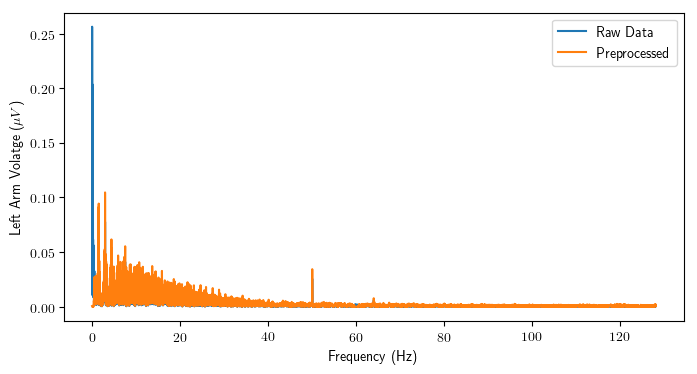
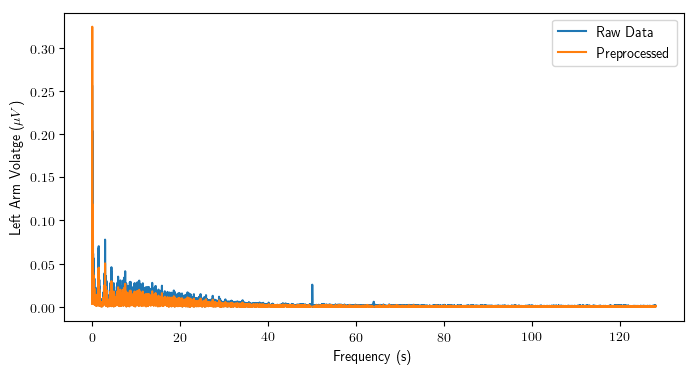
fixed filtering bug and updated paper with fixed figures

diff --git a/src/plot.py b/src/plot.py
@@ -7,7 +7,7 @@ import matplotlib.pyplot as plt
 from matplotlib import rc
 rc('text', usetex=True)
 
-def plot_eeg():
+def plot_eeg_freq():
     plt.figure(figsize=(8, 4))
     column_name = { 3 : "AF3",
                     4 : "F7",
@@ -44,11 +44,13 @@ def plot_eeg():
         plt.savefig(column_name[channel] + ".png", bbox_inches='tight')
         plt.clf()
 
-def plot_ecg():
+def plot_ecg_freq():
     plt.figure(figsize=(8, 4))
     # ECG Ploting
     raw_data = reader.get_matlab_data('ecg', 1, 12)
     data = preprocess.process_data('ecg', copy.deepcopy(raw_data))
+
+    x = data[0] - data[0][0]
 
     # ECG channels are 1 & 2
     for channel in range(1, 3):
@@ -60,14 +62,40 @@ def plot_ecg():
         plt.magnitude_spectrum(y, Fs=256, label='Preprocessed')
 
         plt.legend()
-        plt.xlabel('Frequency (Hz)')
+        plt.xlabel('Frequency (s)')
 
         label = "Left Arm" if channel is 1 else "Right Arm"
         plt.ylabel(label + ' Volatge ($\mu V$)')
         plt.savefig("ECG " + label + ".png", bbox_inches='tight')
         plt.clf()
 
+def plot_ecg_time():
+    plt.figure(figsize=(8, 4))
+    # ECG Ploting
+    raw_data = reader.get_matlab_data('ecg', 1, 12)
+    data = preprocess.process_data('ecg', copy.deepcopy(raw_data))
+
+    x = data[0] - data[0][0]
+
+    # ECG channels are 1 & 2
+    for channel in range(1, 3):
+        # We must also normalize as the processed data is
+        y_raw = filters.normalize(raw_data[channel])
+        y = data[channel]
+
+        plt.plot(x, y_raw, label='Raw Data')
+        plt.plot(x, y, label='Preprocessed')
+
+        plt.legend()
+        plt.xlabel('Time (s)')
+
+        label = "Left Arm" if channel is 1 else "Right Arm"
+        plt.ylabel(label + ' Volatge ($\mu V$)')
+        plt.savefig("ECG " + label + " time.png", bbox_inches='tight')
+        plt.clf()
+
 
 if __name__ == "__main__":
-    plot_eeg()
-    plot_ecg()
+    plot_eeg_freq()
+    plot_ecg_freq()
+    plot_ecg_time()

diff --git a/tex/figures/filtering/filtering.tex b/tex/figures/filtering/filtering.tex
@@ -33,4 +33,21 @@
     \caption{Example filtering of ECG signal on sample 1 video 12
              for the left and right arms}
     \label{fig:ecg}
+
+    \begin{subfigure}[t]{\columnwidth}
+        \centering
+        \includegraphics[width=\columnwidth]{tex/figures/filtering/ECG Left Arm time.png}
+        \caption{Left}
+        \label{fig:filter:left:time}
+    \end{subfigure}
+    \hfill
+    \begin{subfigure}[t]{\columnwidth}
+        \centering
+        \includegraphics[width=\columnwidth]{tex/figures/filtering/ECG Right Arm time.png}
+        \caption{Right}
+        \label{fig:filter:right:time}
+    \end{subfigure}
+    \caption{Example filtering of ECG signal on sample 1 video 12
+             for the left and right arms in time domain}
+    \label{fig:ecg:time}
 \end{figure*}

diff --git a/tex/preprocessing.tex b/tex/preprocessing.tex
@@ -11,12 +11,14 @@ We removed a significant amount of low frequency noise.
 We can see that the preproccessed data results
 in an slightly high amplitude than our original signal despite keeping the same shape.
 Through experimental analysis we noticed that this was by a factor of 5.
-For the ECG signal we applied a 0.5Hz highpass filter as noted in
+For the ECG signal we applied a 0.05Hz highpass filter as noted in
 \cite{SantamariaGranados:2019}
 to remove baseline wander.
-We also applied a bandstop filter with a 60Hz cutoff.
+We also applied a bandstop filter with a 50Hz cutoff.
 A small notch is visible in
 Figures \ref{fig:filter:left} and \ref{fig:filter:right}.
+The impact of the frequency filtering in the time domain can be seen in Figure
+\label{fig:ecg:time}.
 
 
 \clearpage

diff --git a/src/preprocess.py b/src/preprocess.py
@@ -24,8 +24,9 @@ def filter_eeg(data):
 def filter_ecg(data):
     # ECG channels are 1 & 2
     for channel in [1, 2]:
-        data[channel] = filters.high_pass(0.5, 256, data[channel])
-        data[channel] = filters.band_stop(60, 256, data[channel])
+        data[channel] = filters.high_pass(0.05, 256, data[channel])
+        data[channel] = filters.band_stop(50, 256, data[channel])
+        data[channel] = filters.band_stop(64, 256, data[channel])
     return data
 
 # Used for testing
